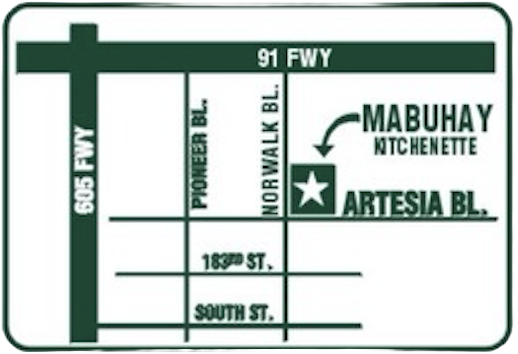
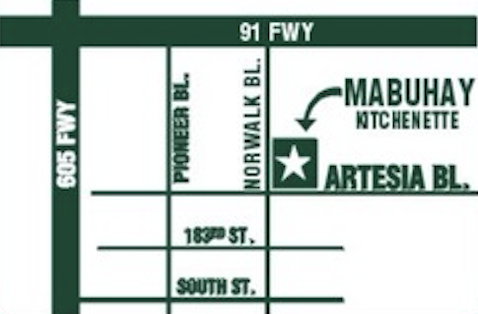
replaced images and updating menu vegetables

diff --git a/frontend/src/views/Home.tsx b/frontend/src/views/Home.tsx
@@ -9,7 +9,7 @@ export default function Home() {
                     <div className="flex flex-col gap-y-2 items-center">
                         <img 
                             src="/location.png" alt="Mabuhay Location" 
-                            className="w-[80%] md:width-full object-cover rounded-md shadow-md mb-4 md:mb-0"
+                            className="w-[80%] md:width-full object-cover rounded-md shadow-md mb-4 md:mb-0 border-2 border-primary-dark"
                         />
                         <footer className="flex flex-col gap-y-2 text-primary-dark text-center">
                             <h2 className="text-primary-dark text-2xl sm:text-3xl font-bold">
@@ -37,7 +37,7 @@ export default function Home() {
                             OPEN 7 DAYS A WEEK
                         </h2>
                         <h2>
-                            7AM - 7PM
+                            7:30AM - 6PM
                         </h2>
                     </div>
                     <div>

diff --git a/frontend/index.html b/frontend/index.html
@@ -2,7 +2,7 @@
 <html lang="en">
   <head>
     <meta charset="UTF-8" />
-    <link rel="icon" type="image/svg+xml" />
+    <link rel="icon" type="image/png" href="/mabuhay logo.png" />
     <meta name="viewport" content="width=device-width, initial-scale=1.0" />
     <title>Mabuhay Kitchenette</title>
   </head>
